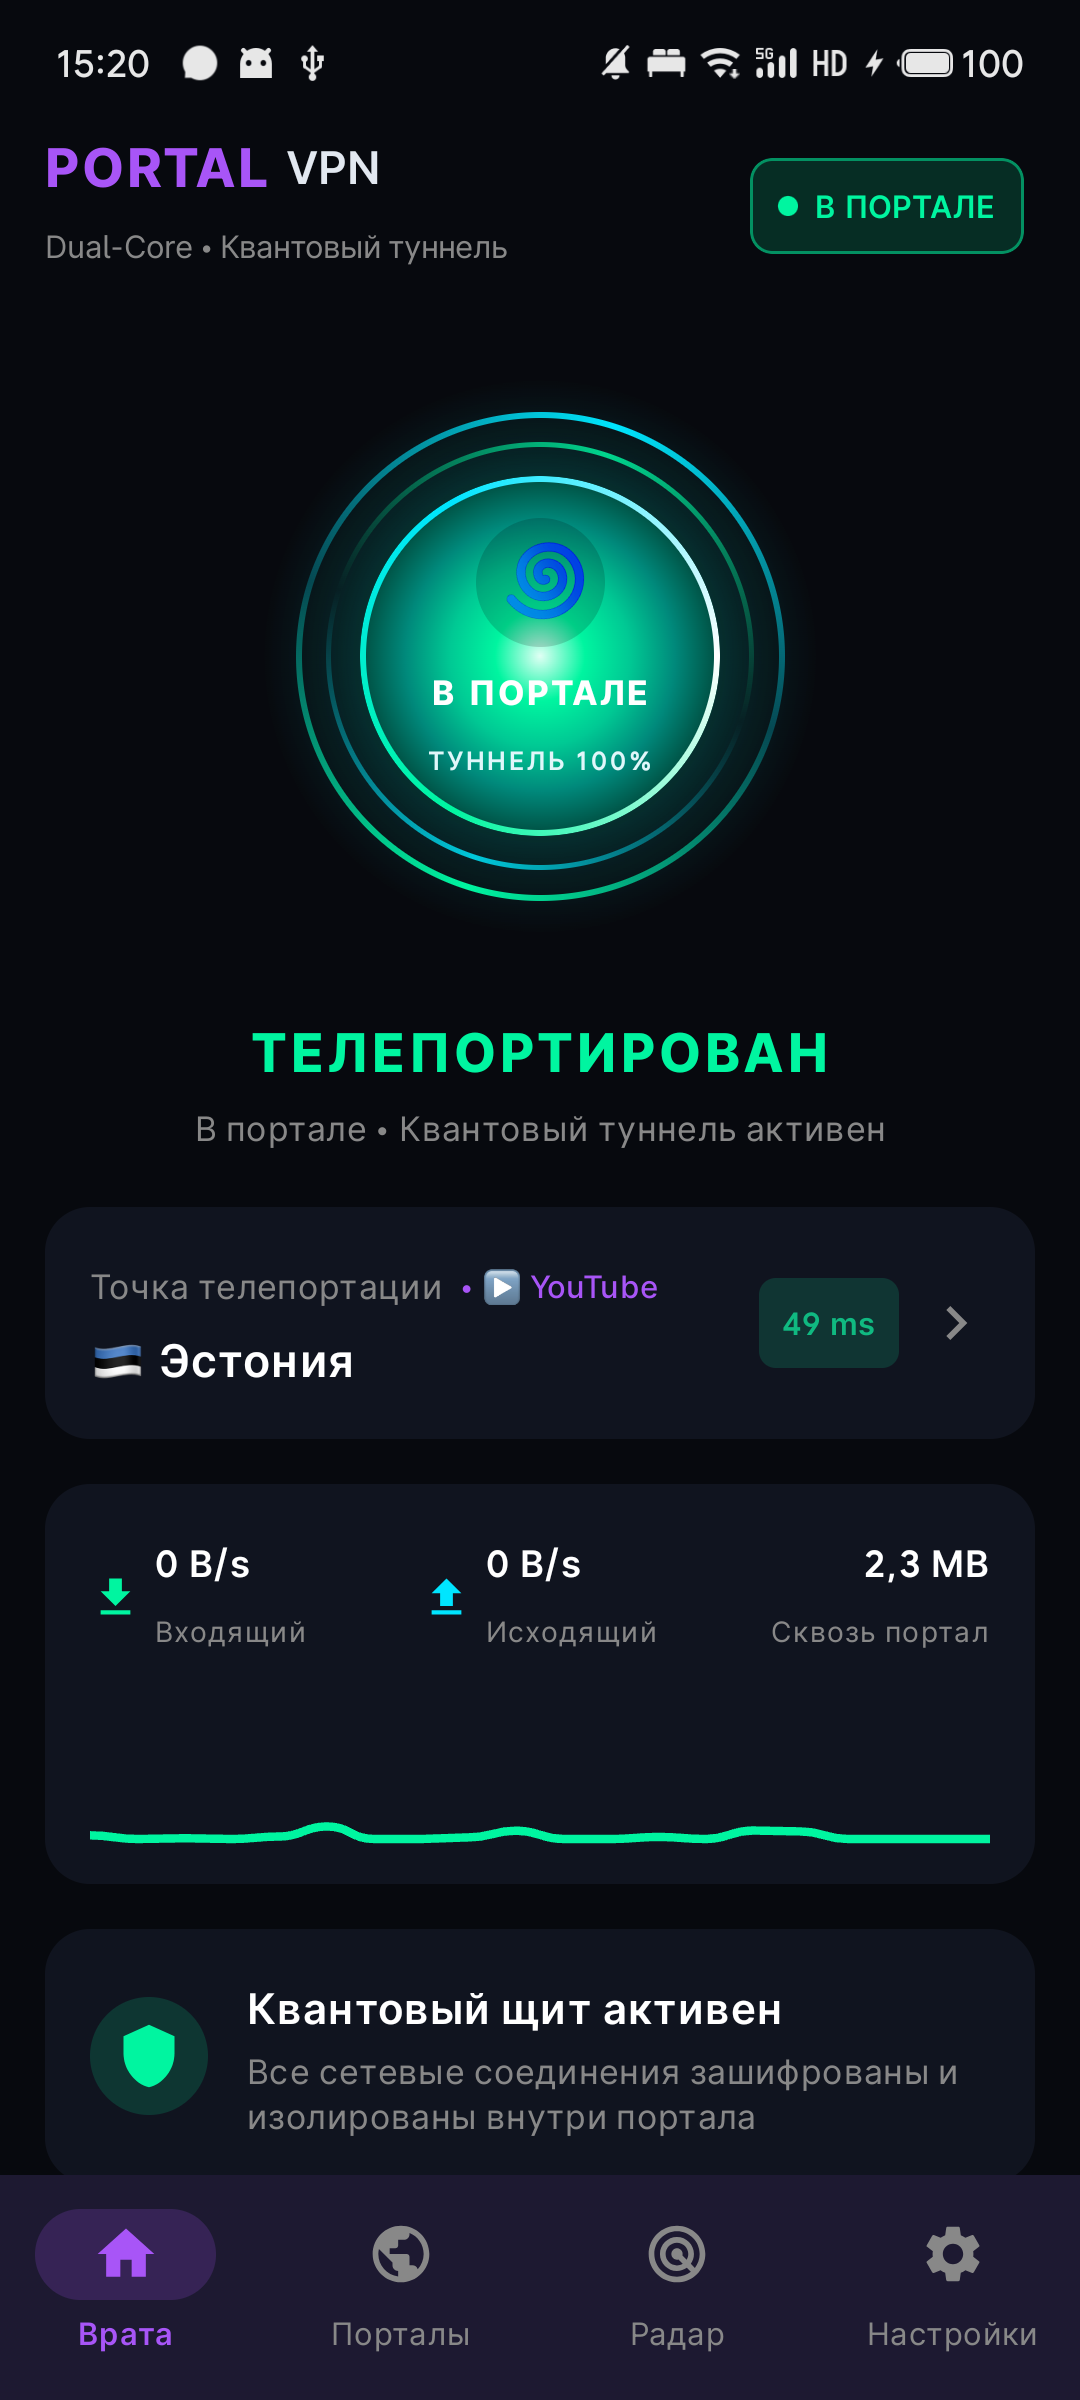
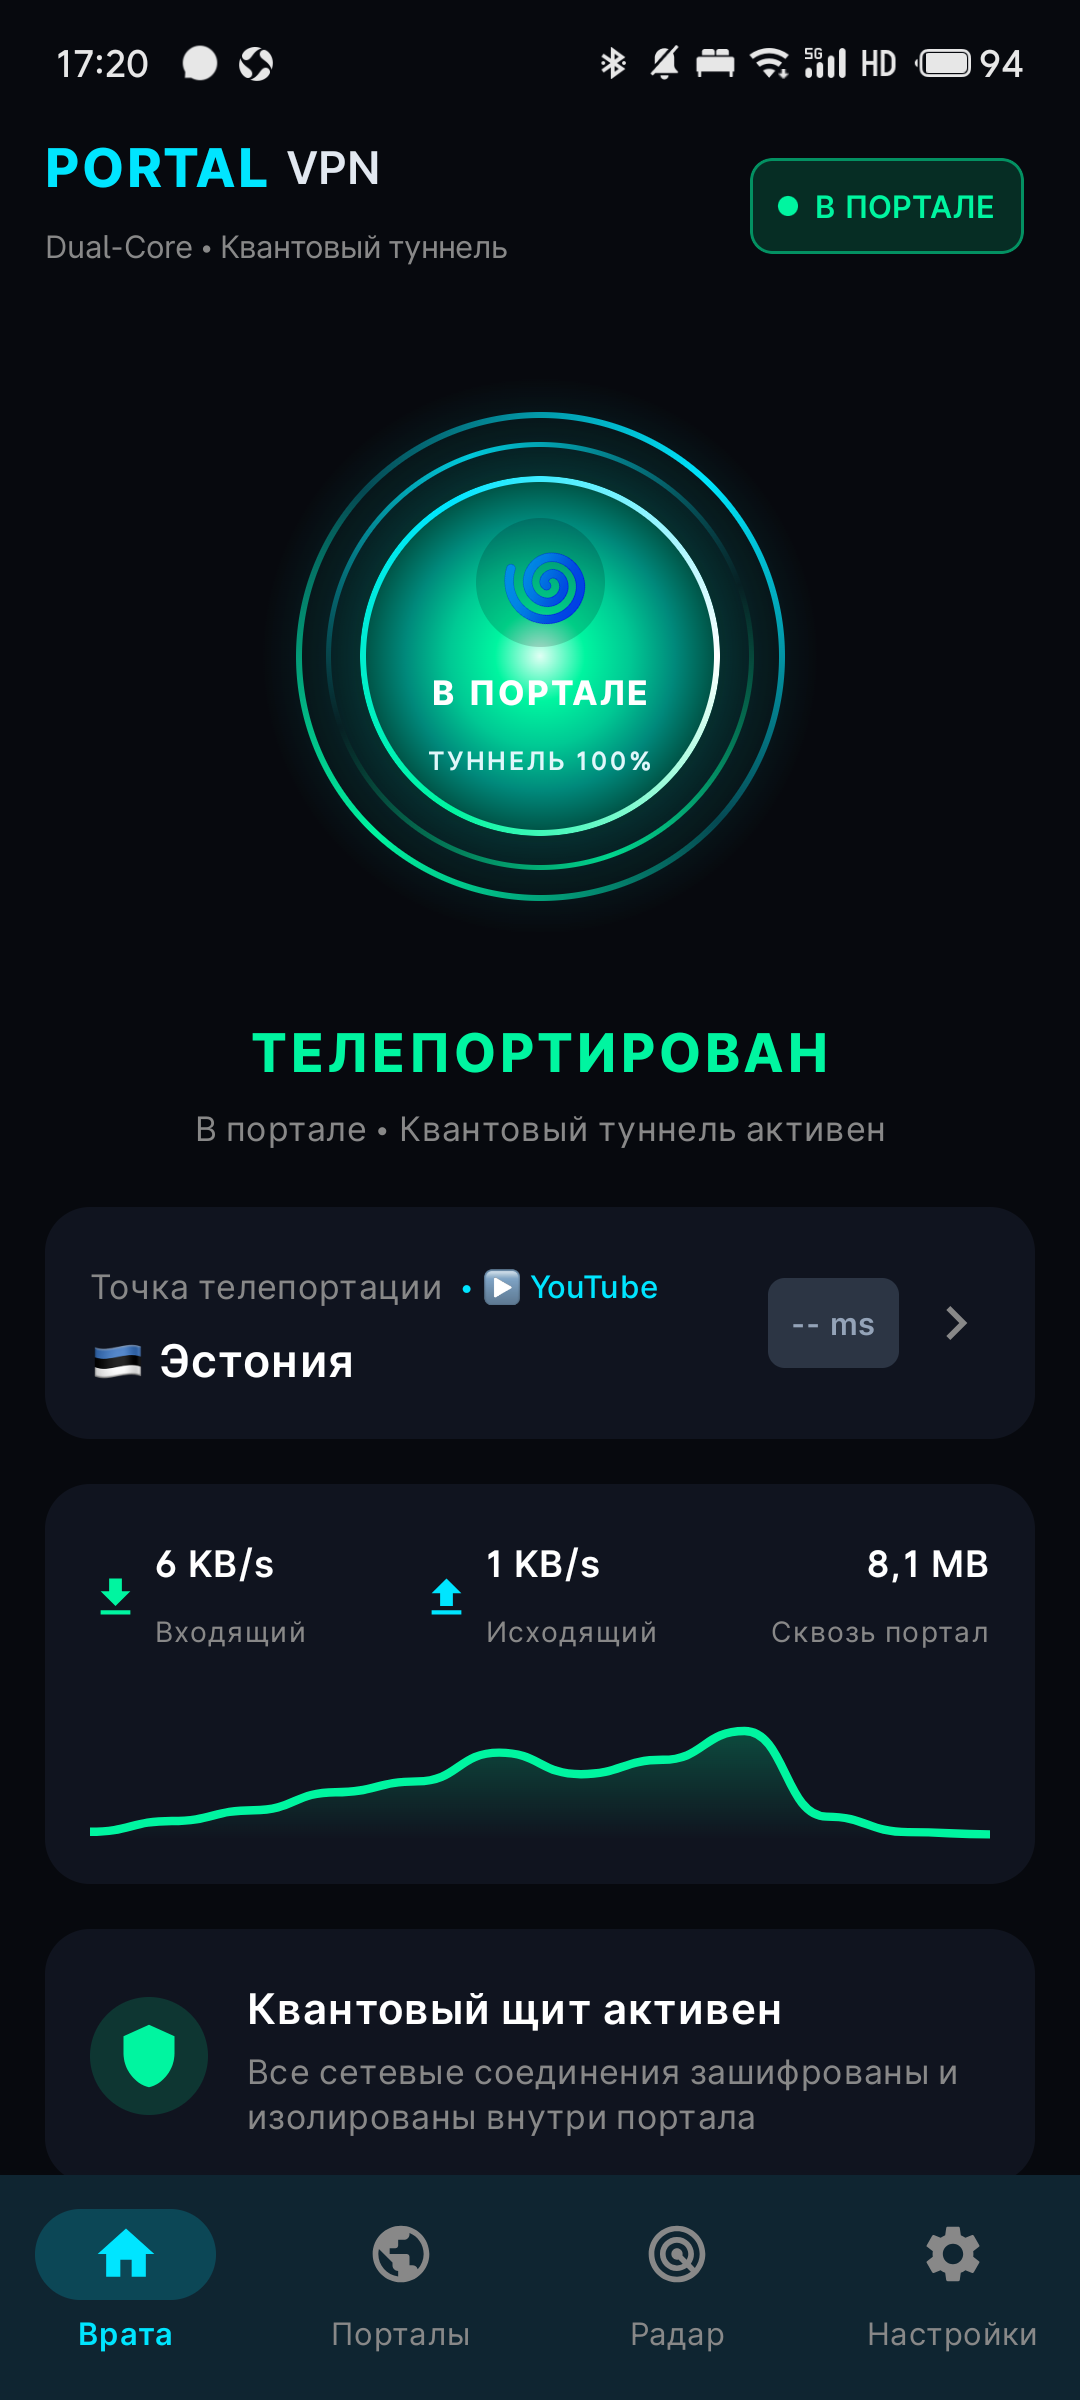
docs: Update screenshots and README with Single Portal autopilot and dual-mode showcase

diff --git a/app/src/main/java/com/multicore/vpn/ui/SettingsScreen.kt b/app/src/main/java/com/multicore/vpn/ui/SettingsScreen.kt
@@ -66,6 +66,7 @@ fun SettingsScreen(
     isCheckingUpdate: Boolean = false,
     onCheckUpdate: () -> Unit = {}
 ) {
+    var currentMode by remember(settings.appInterfaceMode) { mutableStateOf(settings.appInterfaceMode) }
     var themeMode by remember { mutableStateOf(settings.themeMode) }
     var accentOption by remember { mutableStateOf(settings.accentColor) }
     var dnsProvider by remember { mutableStateOf(settings.dnsProvider) }
@@ -102,11 +103,12 @@ fun SettingsScreen(
                         .fillMaxWidth()
                         .clip(RoundedCornerShape(12.dp))
                         .clickable {
+                            currentMode = AppInterfaceMode.SINGLE_PORTAL
                             settings.appInterfaceMode = AppInterfaceMode.SINGLE_PORTAL
                             onSettingsChanged()
                         }
                         .background(
-                            if (settings.appInterfaceMode == AppInterfaceMode.SINGLE_PORTAL)
+                            if (currentMode == AppInterfaceMode.SINGLE_PORTAL)
                                 MaterialTheme.colorScheme.primary.copy(alpha = 0.15f)
                             else Color.Transparent
                         )
@@ -128,7 +130,7 @@ fun SettingsScreen(
                             color = Color.Gray
                         )
                     }
-                    if (settings.appInterfaceMode == AppInterfaceMode.SINGLE_PORTAL) {
+                    if (currentMode == AppInterfaceMode.SINGLE_PORTAL) {
                         Icon(Icons.Default.Check, contentDescription = null, tint = MaterialTheme.colorScheme.primary)
                     }
                 }
@@ -138,11 +140,12 @@ fun SettingsScreen(
                         .fillMaxWidth()
                         .clip(RoundedCornerShape(12.dp))
                         .clickable {
+                            currentMode = AppInterfaceMode.MULTI_PORTAL
                             settings.appInterfaceMode = AppInterfaceMode.MULTI_PORTAL
                             onSettingsChanged()
                         }
                         .background(
-                            if (settings.appInterfaceMode == AppInterfaceMode.MULTI_PORTAL)
+                            if (currentMode == AppInterfaceMode.MULTI_PORTAL)
                                 MaterialTheme.colorScheme.primary.copy(alpha = 0.15f)
                             else Color.Transparent
                         )
@@ -153,6 +156,23 @@ fun SettingsScreen(
                     Spacer(modifier = Modifier.width(12.dp))
                     Column(modifier = Modifier.weight(1f)) {
                         Text(
+                            text = "Множество Порталов (Эксперт)",
+                            fontSize = 15.sp,
+                            fontWeight = FontWeight.SemiBold,
+                            color = MaterialTheme.colorScheme.onSurface
+                        )
+                        Text(
+                            text = "Выбор любых стран, радар сервисов, тестирование задержек",
+                            fontSize = 12.sp,
+                            color = Color.Gray
+                        )
+                    }
+                    if (currentMode == AppInterfaceMode.MULTI_PORTAL) {
+                        Icon(Icons.Default.Check, contentDescription = null, tint = MaterialTheme.colorScheme.primary)
+                    }
+                }
+            }
+        }
                             text = "Множество Порталов (Эксперт)",
                             fontSize = 15.sp,
                             fontWeight = FontWeight.SemiBold,

diff --git a/app/src/main/java/com/multicore/vpn/MainActivity.kt b/app/src/main/java/com/multicore/vpn/MainActivity.kt
@@ -28,6 +28,7 @@ import kotlinx.coroutines.launch
 class MainActivity : ComponentActivity() {
 
     private lateinit var settings: AppSettings
+    private var currentInterfaceMode by mutableStateOf(AppInterfaceMode.UNSELECTED)
     private var isConnected by mutableStateOf(false)
     private var selectedRoute by mutableStateOf(PortalCoreJni.getSelectedRoute())
     private var showRouteBottomSheet by mutableStateOf(false)
@@ -97,6 +98,7 @@ class MainActivity : ComponentActivity() {
     override fun onCreate(savedInstanceState: Bundle?) {
         super.onCreate(savedInstanceState)
         settings = AppSettings(this)
+        currentInterfaceMode = settings.appInterfaceMode
         PortalCoreJni.init(this)
 
         val failoverFilter = android.content.IntentFilter(PortalFailoverWatchdog.ACTION_PORTAL_FAILOVER)
@@ -127,15 +129,17 @@ class MainActivity : ComponentActivity() {
                 themeMode = settings.themeMode,
                 accentOption = settings.accentColor
             ) {
-                if (settings.appInterfaceMode == AppInterfaceMode.UNSELECTED) {
+                if (currentInterfaceMode == AppInterfaceMode.UNSELECTED) {
                     ModeSelectionScreen(
                         onSelectMode = { mode ->
                             settings.appInterfaceMode = mode
+                            currentInterfaceMode = mode
                             themeRecomposeTrigger++
                         }
                     )
                 } else {
                     MainScreen(
+                        interfaceMode = currentInterfaceMode,
                         isConnected = isConnected,
                         selectedRoute = selectedRoute,
                         availableRoutes = availableRoutes,
@@ -170,7 +174,7 @@ class MainActivity : ComponentActivity() {
                             } else if (isConnected) {
                                 stopVpnService()
                             } else {
-                                if (settings.appInterfaceMode == AppInterfaceMode.SINGLE_PORTAL) {
+                                if (currentInterfaceMode == AppInterfaceMode.SINGLE_PORTAL) {
                                     val bestRoute = availableRoutes
                                         .filter { (pingsMap[it] ?: 0) > 0 }
                                         .minByOrNull { pingsMap[it] ?: 9999 }
@@ -226,6 +230,7 @@ class MainActivity : ComponentActivity() {
                             triggerIpCheck()
                         },
                         onSettingsChanged = {
+                            currentInterfaceMode = settings.appInterfaceMode
                             themeRecomposeTrigger++
                         },
                         onOpenSplitTunneling = {
@@ -254,6 +259,7 @@ class MainActivity : ComponentActivity() {
     override fun onResume() {
         super.onResume()
         isConnected = PortalVpnService.isRunning
+        currentInterfaceMode = settings.appInterfaceMode
         refreshRoutes()
         selectedRoute = PortalCoreJni.getSelectedRoute()
         themeRecomposeTrigger++

diff --git a/app/src/main/java/com/multicore/vpn/ui/MainScreen.kt b/app/src/main/java/com/multicore/vpn/ui/MainScreen.kt
@@ -107,6 +107,7 @@ fun MainScreen(
     speedHistory: List<Float>,
     ipCheckResult: IpCheckResult,
     settings: AppSettings,
+    interfaceMode: AppInterfaceMode = AppInterfaceMode.SINGLE_PORTAL,
     showRouteBottomSheet: Boolean,
     radarResults: Map<String, ServiceCheckResult>,
     isRadarScanning: Boolean,
@@ -131,7 +132,7 @@ fun MainScreen(
     onStartUpdateDownload: () -> Unit = {},
     onDismissUpdateDialog: () -> Unit = {}
 ) {
-    val isSinglePortalMode = (settings.appInterfaceMode == AppInterfaceMode.SINGLE_PORTAL)
+    val isSinglePortalMode = (interfaceMode == AppInterfaceMode.SINGLE_PORTAL)
     var selectedTab by remember { mutableStateOf(NavigationTab.HOME) }
     var showAddPortalDialog by remember { mutableStateOf(false) }
     var showSingleModeSettingsSheet by remember { mutableStateOf(false) }

diff --git a/README.md b/README.md
@@ -57,6 +57,11 @@
    - Встроенный фоновый сторож сети каждые 10 минут проверяет доступность Telegram сквозь активный портал.
    - Если сервер перестал отвечать, сторож подтверждает сбой контрольной проверкой, моментально находит среди доступных порталов самый быстрый рабочий узел и бесшовно переключает оба ядра на него, уведомляя пользователя.
 
+8. **Двойной режим интерфейса (Автопилот ↔ Эксперт)**
+   - **«Один Портал (Автопилот)»**: супер-простой режим без лишних вкладок и сложных списков. Всего одна большая кнопка включения — приложение само тестирует подписку, подбирает лучший узел и держит туннель активным.
+   - **«Множество Порталов (Эксперт)»**: полный доступ ко всем 4 разделам («Врата», «Порталы», «Радар», «Настройки»), ручному выбору стран и детальным замерам задержек.
+   - Быстрое переключение между режимами в Настройках в один тап.
+
 ---
 
 ## 🏗 Архитектура системы
@@ -91,10 +96,17 @@ flowchart TD
 
 ## 📱 Скриншоты интерфейса
 
-| Врата (В портале) | Радар доступности | Выбор портала и пинг |
+| Выбор режима (Онбординг) | Один Портал (Автопилот) | Врата (Множество Порталов) |
 | :---: | :---: | :---: |
-| <img src="docs/screenshots/gates_connected.png" width="280" alt="Врата (В портале)"/> | <img src="docs/screenshots/service_radar.png" width="280" alt="Радар доступности"/> | <img src="docs/screenshots/portals_catalog.png" width="280" alt="Выбор портала и пинг"/> |
-| *Живая сингулярность, счетчик трафика и статус квантовой защиты* | *Замер реальной задержки сквозь туннель до Telegram, YouTube, Gemini* | *Умный выбор сервиса для пинга, автосортировка и каталог* |
+| <img src="docs/screenshots/mode_selection.png" width="280" alt="Выбор режима (Онбординг)"/> | <img src="docs/screenshots/single_portal_connected.png" width="280" alt="Один Портал (Автопилот)"/> | <img src="docs/screenshots/gates_connected.png" width="280" alt="Врата (Множество Порталов)"/> |
+| *Выбор удобного уровня сложности при первом входе* | *Одна кнопка, скрытые вкладки и автоматический подбор* | *Живая квантовая сингулярность, счетчик трафика и статус* |
+
+<br>
+
+| Каталог и умный пинг | Радар связи миров | Переключатель в Настройках |
+| :---: | :---: | :---: |
+| <img src="docs/screenshots/portals_catalog.png" width="280" alt="Каталог и умный пинг"/> | <img src="docs/screenshots/service_radar.png" width="280" alt="Радар доступности"/> | <img src="docs/screenshots/settings_mode_switcher.png" width="280" alt="Переключатель в Настройках"/> |
+| *Умный замер сквозной задержки до YouTube, TG, ChatGPT* | *Диагностика отклика ключевых мировых сервисов* | *Мгновенная смена режима интерфейса и автообновления* |
 
 ---
 

diff --git a/README.en.md b/README.en.md
@@ -57,6 +57,11 @@ The project has completely evolved into a native, high-performance **Android cli
    - Background health monitor tests Telegram connectivity through the active tunnel every 10 minutes.
    - If the active portal becomes unresponsive, the watchdog confirms the failure, scans available backup portals, and automatically switches both cores to the fastest responsive route with instant UI feedback.
 
+8. **Dual Interface Mode (Auto-Pilot ↔ Expert)**
+   - **«Single Portal (Auto-Pilot)»**: simplified, clutter-free experience for non-technical users. Single connect button, hidden tab bars and automated node picking.
+   - **«Multi-Portal (Expert)»**: full access to all 4 tabs (Gates, Portals, Radar, Settings) with manual server selection and custom target ping tests.
+   - Instant 1-tap switching between modes directly in Settings.
+
 ---
 
 ## 🏗 System Architecture
@@ -91,10 +96,17 @@ flowchart TD
 
 ## 📱 Interface Screenshots
 
-| Gates (In Portal) | Service Radar | Portals Catalog & Ping |
+| Mode Selection (Onboarding) | Single Portal (Auto-Pilot) | Gates (Multi-Portal) |
 | :---: | :---: | :---: |
-| <img src="docs/screenshots/gates_connected.png" width="280" alt="Gates (In Portal)"/> | <img src="docs/screenshots/service_radar.png" width="280" alt="Service Radar"/> | <img src="docs/screenshots/portals_catalog.png" width="280" alt="Portals Catalog & Ping"/> |
-| *Living singularity, traffic counter & quantum shield status* | *End-to-end real delay test to Telegram, YouTube, Gemini* | *Smart target app selection, auto-sorting and catalog* |
+| <img src="docs/screenshots/mode_selection.png" width="280" alt="Mode Selection (Onboarding)"/> | <img src="docs/screenshots/single_portal_connected.png" width="280" alt="Single Portal (Auto-Pilot)"/> | <img src="docs/screenshots/gates_connected.png" width="280" alt="Gates (Multi-Portal)"/> |
+| *Intuitive mode selection on first launch* | *Single button, hidden tabs and auto node optimization* | *Living singularity, traffic counter & quantum shield* |
+
+<br>
+
+| Portals Catalog & Ping | Service Radar | Settings Mode Switcher |
+| :---: | :---: | :---: |
+| <img src="docs/screenshots/portals_catalog.png" width="280" alt="Portals Catalog & Ping"/> | <img src="docs/screenshots/service_radar.png" width="280" alt="Service Radar"/> | <img src="docs/screenshots/settings_mode_switcher.png" width="280" alt="Settings Mode Switcher"/> |
+| *End-to-end real delay test to YouTube, TG, ChatGPT* | *Real-time connectivity diagnostics across global services* | *Instant 1-tap interface mode switching & auto-updates* |
 
 ---
 
